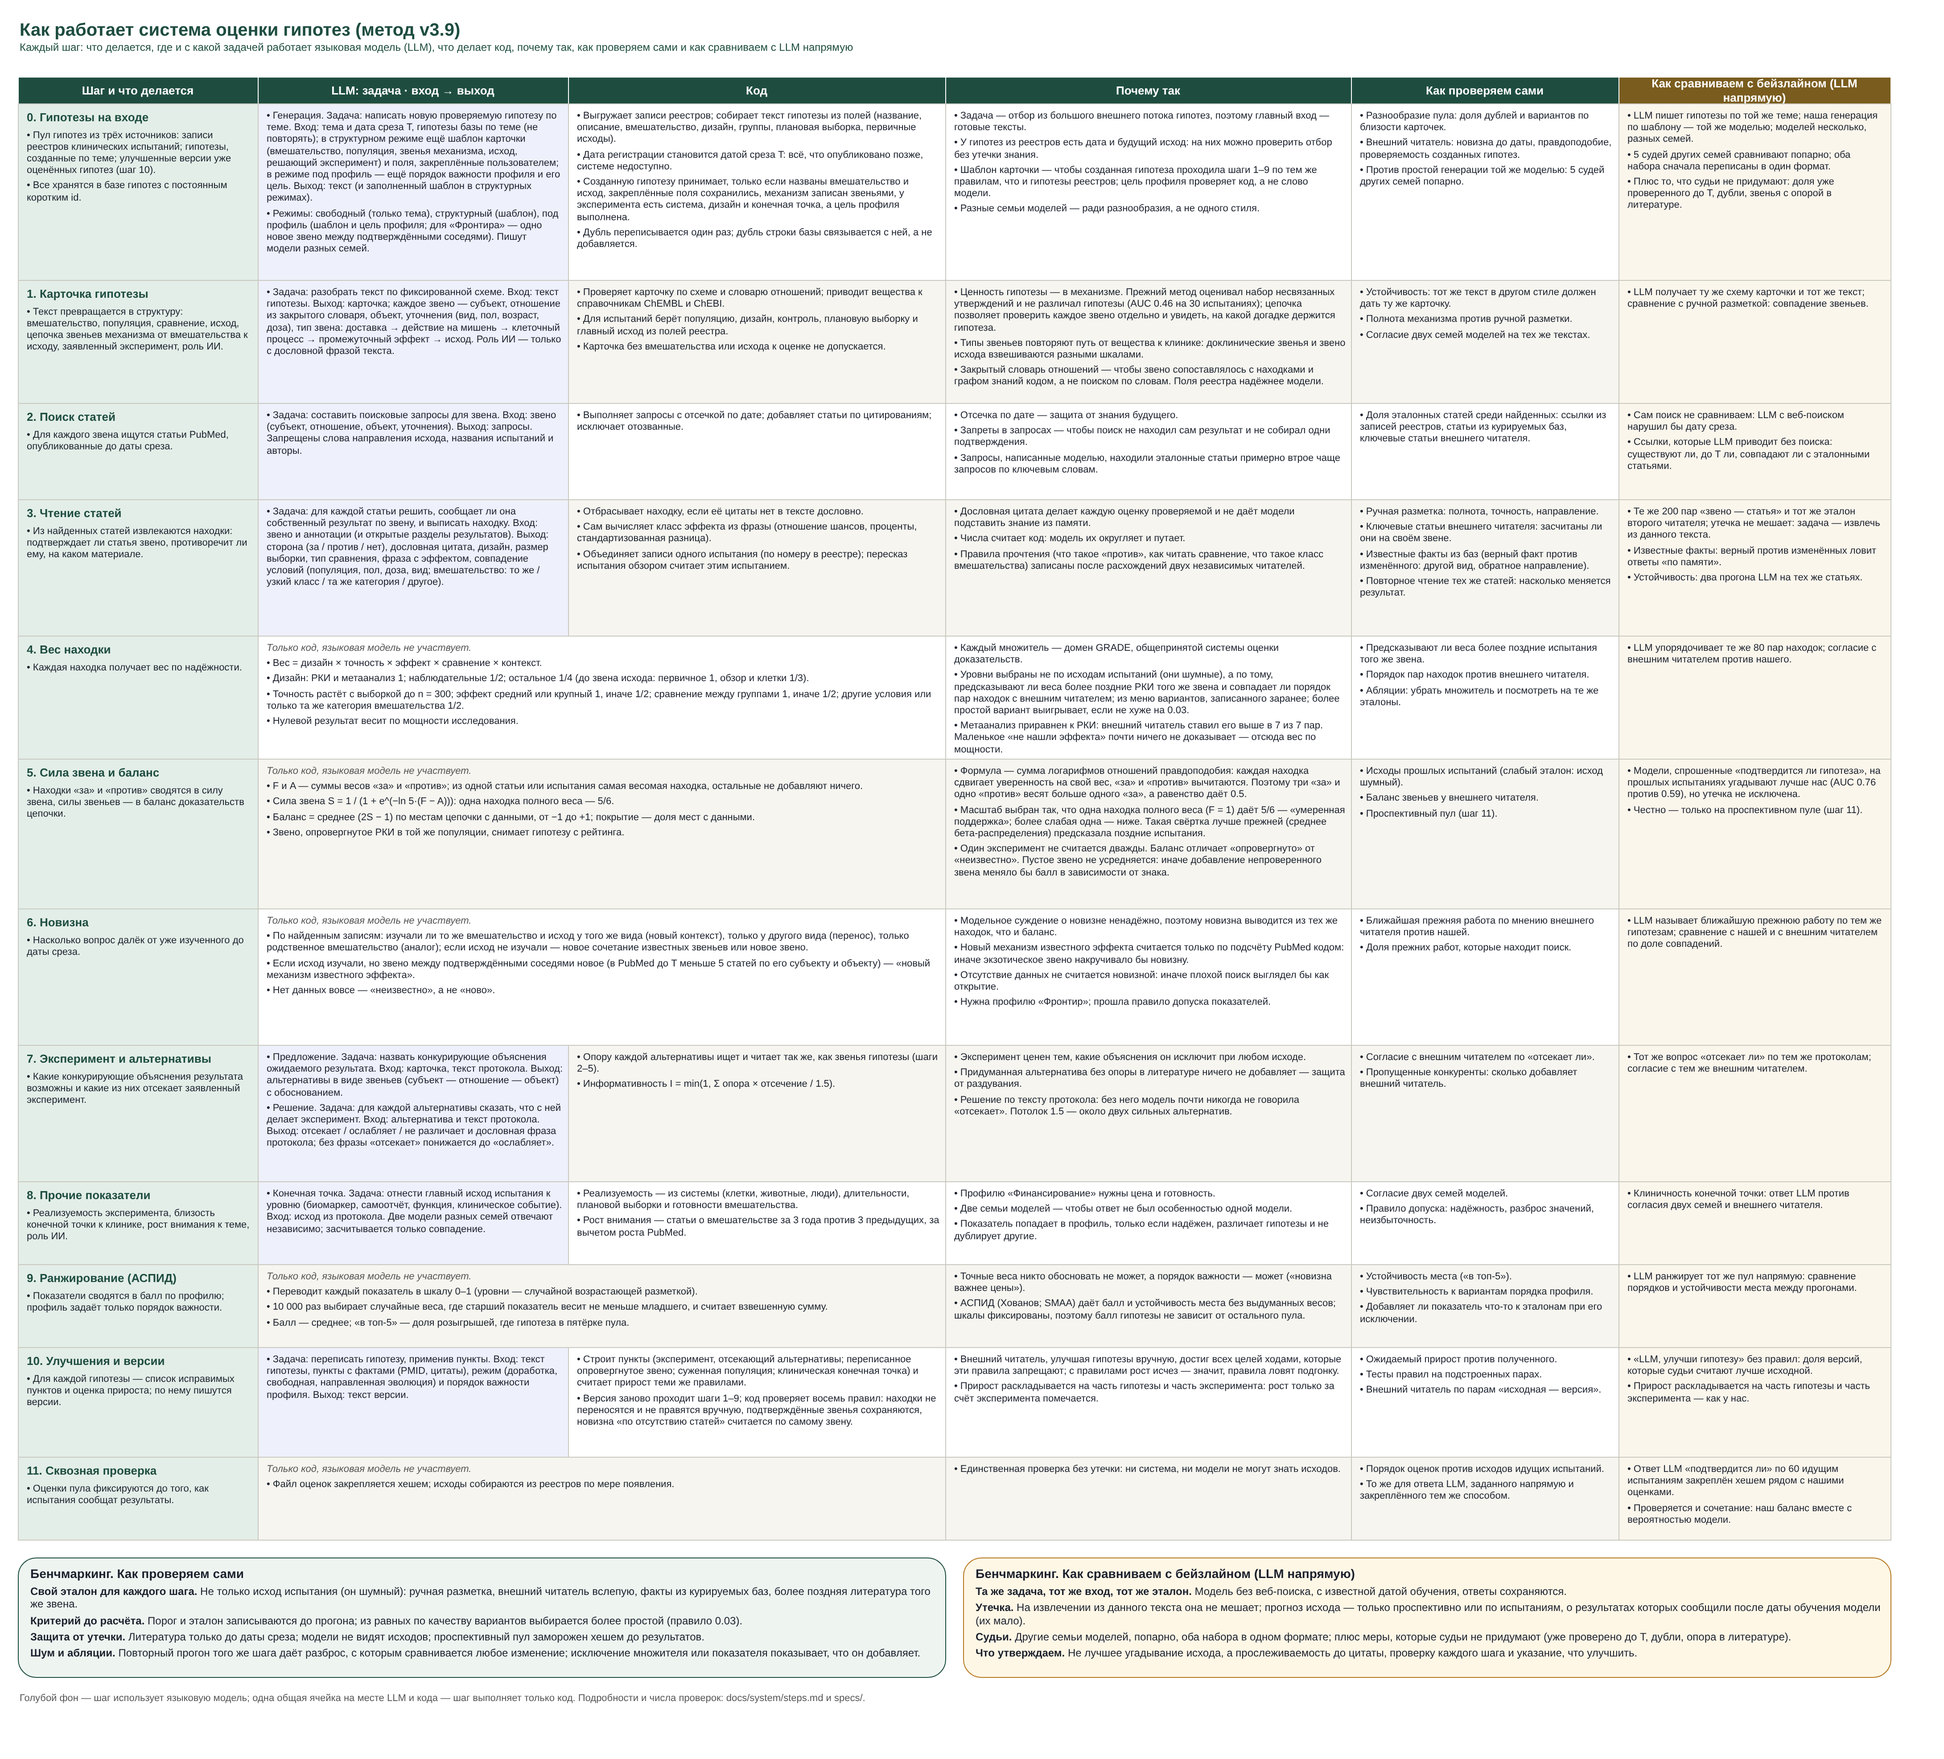
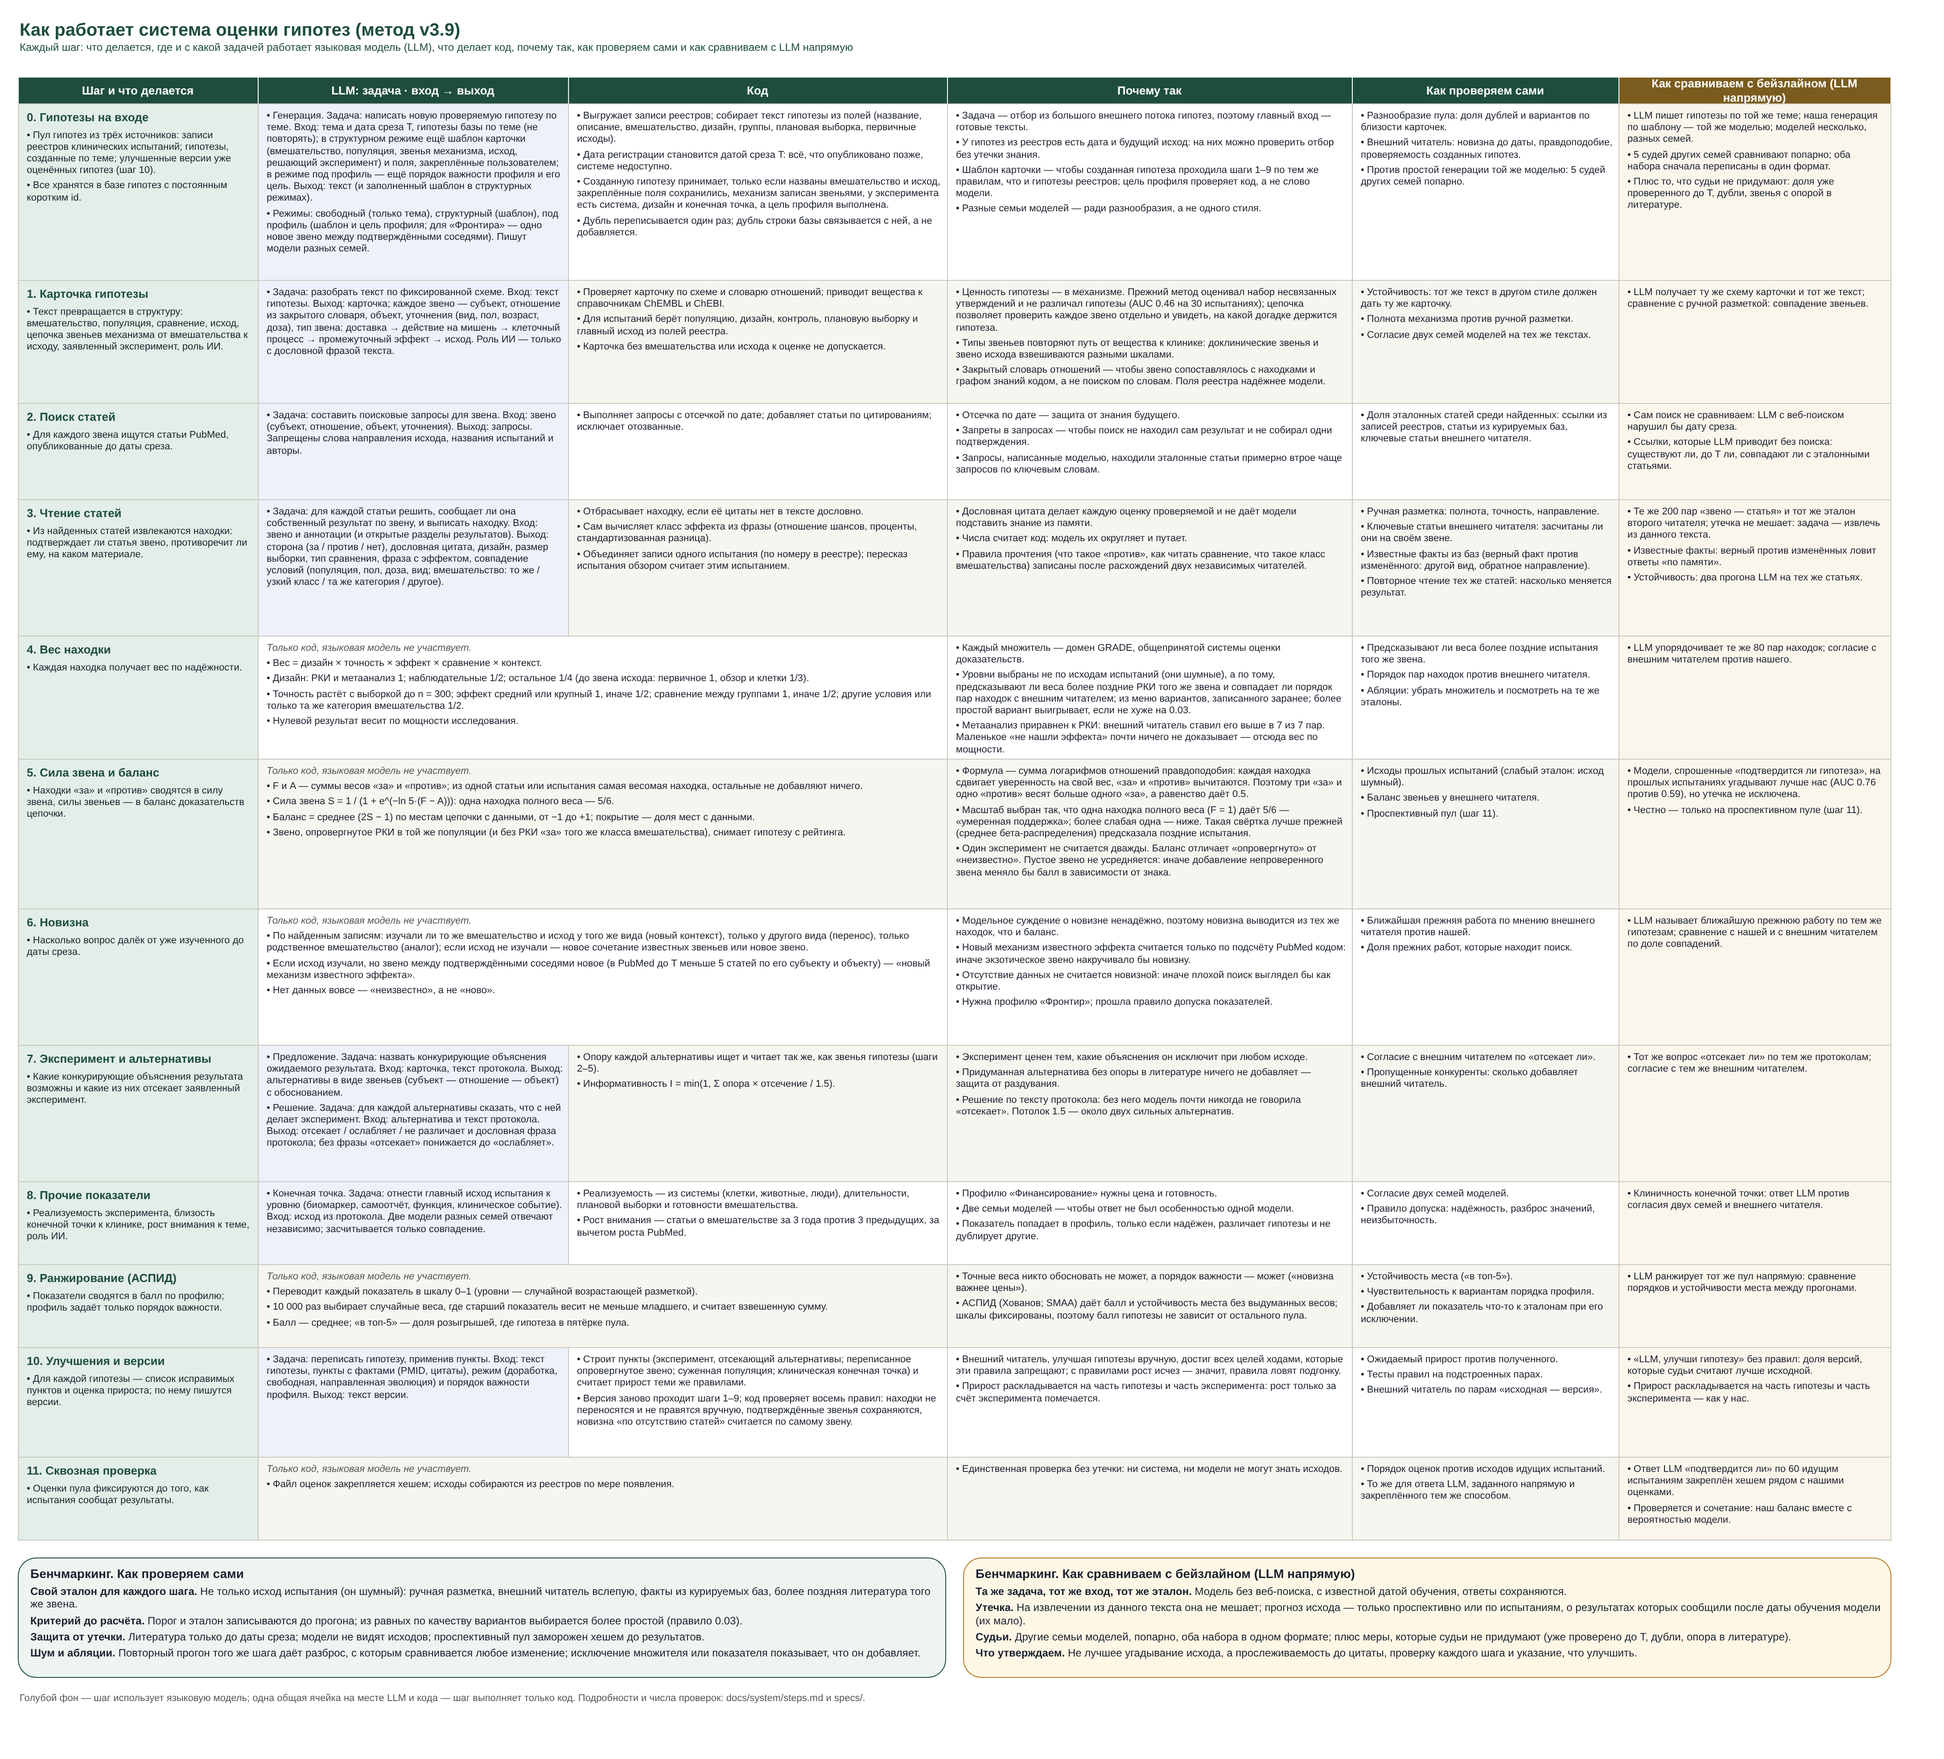
Gate: a top-design record of the same class of intervention is a counterweight (G2a)
Claude-Session: https://claude.ai/code/session_015QaY915XLcZGhK8jM88atd

diff --git a/docs/system/build_scheme.py b/docs/system/build_scheme.py
@@ -83,7 +83,7 @@ STEPS = [
      ["F и A — суммы весов «за» и «против»; из одной статьи или испытания самая весомая находка, остальные не добавляют ничего.",
       "Сила звена S = 1 / (1 + e^(−ln 5·(F − A))): одна находка полного веса — 5/6.",
       "Баланс = среднее (2S − 1) по местам цепочки с данными, от −1 до +1; покрытие — доля мест с данными.",
-      "Звено, опровергнутое РКИ в той же популяции, снимает гипотезу с рейтинга."],
+      "Звено, опровергнутое РКИ в той же популяции (и без РКИ «за» того же класса вмешательства), снимает гипотезу с рейтинга."],
      ["Формула — сумма логарифмов отношений правдоподобия: каждая находка сдвигает уверенность на свой вес, «за» и «против» вычитаются. Поэтому три «за» и одно «против» весят больше одного «за», а равенство даёт 0.5.",
       "Масштаб выбран так, что одна находка полного веса (F = 1) даёт 5/6 — «умеренная поддержка»; более слабая одна — ниже. Такая свёртка лучше прежней (среднее бета-распределения) предсказала поздние испытания.",
       "Один эксперимент не считается дважды. Баланс отличает «опровергнуто» от «неизвестно». Пустое звено не усредняется: иначе добавление непроверенного звена меняло бы балл в зависимости от знака."],

diff --git a/hyparena/scoring/rules_v3.py b/hyparena/scoring/rules_v3.py
@@ -94,7 +94,8 @@ def _independent(records: list[EvidenceRecord]) -> int:
 
 # Variants of the gate (specs/scoring/gate-fixes-2026-11-15.yaml); the defaults are the current rule.
 GATE_OUTCOME_NAMED = False                  # G1: a record against counts only when its quote names the claim's outcome
-GATE_SUPPORT_CONTEXTS = ("exact",)          # G2: ("exact", "class", "adjacent") - a counterweight in any counting context
+GATE_SUPPORT_CONTEXTS = ("exact", "class")   # G2, adopted 2026-11-15: the same class of intervention is a counterweight too (was exact only);
+                                              # not an adjacent population: a small trial elsewhere must not cancel a large null in the claim's own
 
 
 def _names_outcome(rec: EvidenceRecord, claim: Claim) -> bool:
@@ -106,7 +107,7 @@ def _names_outcome(rec: EvidenceRecord, claim: Claim) -> bool:
 
 def strong_refutation(cv: ClaimVerification, claim: Claim, variant: str = "v3") -> bool:
     """The gate (section 3): a top-design, between-group record against in the claim's population (exact context), and no
-    record for of that level."""
+    top-design between-group record for the link in the exact context or of the same class of intervention (since 2026-11-15)."""
     def top(r, contexts=("exact",)):
         return usable(r, variant) and record_design(r) in TOP_DESIGNS and r.comparison in ("between_groups", "unknown") \
             and context_level(r) in contexts

diff --git a/scripts/scoring/gate_variants.py b/scripts/scoring/gate_variants.py
@@ -15,9 +15,10 @@ from scripts.scoring.weight_variants import OUT
 
 ALL = ("exact", "class", "adjacent")
 VARIANTS = {
-    "current": {},
+    "current": {},                                             # the rule before 2026-11-15: a counterweight in the exact context only
     "G1 named outcome": {"named": True},
     "G2 counterweight in any context": {"contexts": ALL},
+    "G2a counterweight exact or class (adopted)": {"contexts": ("exact", "class")},
     "G1 and G2": {"named": True, "contexts": ALL},
 }
 

diff --git a/docs/system/changelog.md b/docs/system/changelog.md
@@ -189,6 +189,15 @@
 
 ## Этап 5. Вес записи и сила звена
 
+- **2026-11-15, ворота: противовес того же класса вмешательства.** Звено опровергается, если есть РКИ или метаанализ «против»
+  между группами в точном контексте и нет такого же «за» — теперь «за» засчитывается и в контексте «класс» (было только
+  точный). РКИ в смежной популяции противовесом не считается: небольшое испытание в другой популяции не должно снимать
+  крупный нулевой результат в своей (случай левотироксина и TRUST, n 737, в тестах); на опорах оба варианта дают одно и то же. Один нулевой результат против нескольких испытаний однотипного вмешательства — конфликт, а не опровержение.
+  Правило проверки записано до счёта: AUC 30 испытаний с ридером v17 0.598 → 0.674, с v16 0.714 → 0.692, R3 0.602 без
+  изменений; ворота сняты с двух положительных и одного отрицательного испытания (в обоих прогонах). Не принято: учитывать
+  «против» только по исходу, названному в утверждении, — проверка по словам цитаты ошибалась в обоих случаях, где
+  срабатывала; нужна отметка ридера о совпадении исхода
+  ([`specs/scoring/gate-fixes-2026-11-15.yaml`](../../specs/scoring/gate-fixes-2026-11-15.yaml)).
 - **2026-11-15, веса по опубликованным основаниям (пакет Argon 24).** Argon нашёл источники к каждому множителю веса
   (40 источников, проверены кодом); каждое предложенное значение проверено как вариант на эталонах R2, R3, порядке пар
   пакета 23 и AUC баланса на 30 испытаниях пакета 18 (правило: ни один не хуже больше чем на 0.03). Принято:

diff --git a/docs/method-v3-manual.md b/docs/method-v3-manual.md
@@ -2,7 +2,7 @@
 
 This manual describes the current rules of the method (version **v3.10**) as one self-contained text: a reader, a model or
 an outside reviewer can score a hypothesis and read its report from it alone. Each stage has its own detailed manual in
-[`docs/system/`](system/) (so far: [the card](system/card.md)); this manual is their compressed aggregate. How the rules
+[`docs/system/`](system/) ([the card](system/card.md), [the search](system/search.md), [the reading](system/reading.md)); this manual is their compressed aggregate. How the rules
 came to be what they are, with the checks behind each change, is in the [change log](system/changelog.md), not here.
 
 Where the code is: rules [`hyparena/scoring/rules_v32.py`](../hyparena/scoring/rules_v32.py), novelty
@@ -277,8 +277,11 @@ S 0.5 and is left out of the evidence balance (section 7).
 named in the link is taken as at least 5/6 without search.
 
 **Gate (the only filter).** A key link is refuted when there is a record against of the top design (RCT or meta-analysis),
-between groups, in the hypothesis's population, and no record for of that level. Then the hypothesis is filtered (not
-ranked). Nothing else filters: an undeveloped but promising hypothesis keeps its score and gets flags.
+between groups, in the hypothesis's population (exact context), and no record for of that level, between groups, in the exact
+context or about the same class of intervention: an RCT or meta-analysis of the same kind of intervention is a
+counterweight too (one null trial against several trials of the same kind of intervention is a conflict, not a refutation).
+A trial in an adjacent population is not: a small trial elsewhere does not cancel a large null in the claim's own population.
+Then the hypothesis is filtered (not ranked). Nothing else filters: an undeveloped but promising hypothesis keeps its score and gets flags.
 
 ## 7. Axes
 

diff --git a/docs/system/steps.md b/docs/system/steps.md
@@ -163,7 +163,8 @@ DrugAge против изменённых (другой вид, обратное
 
 **Как работает сейчас.** Находки «за» и «против» складываются в силу шага (сумма логарифмов отношений правдоподобия: «за» с
 плюсом, «против» с минусом). Баланс цепочки — среднее по шагам, о которых есть данные; покрытие — доля таких шагов.
-Гипотеза, ключевой шаг которой опровергнут РКИ в той же популяции, в рейтинг не попадает. Только код.
+Гипотеза, ключевой шаг которой опровергнут РКИ в той же популяции, в рейтинг не попадает; противовесом служит РКИ или
+метаанализ «за» того же вмешательства или его класса. Только код.
 
 **Почему так.** Прежняя «неопровергнутость» была равна 1 у двух третей гипотез и не различала «ничего не известно» и
 «подтверждено»; одна ось от −1 до +1 различает (`specs/scoring/link-scoring-2026-11-08.yaml`). Шаг без данных не усредняется
